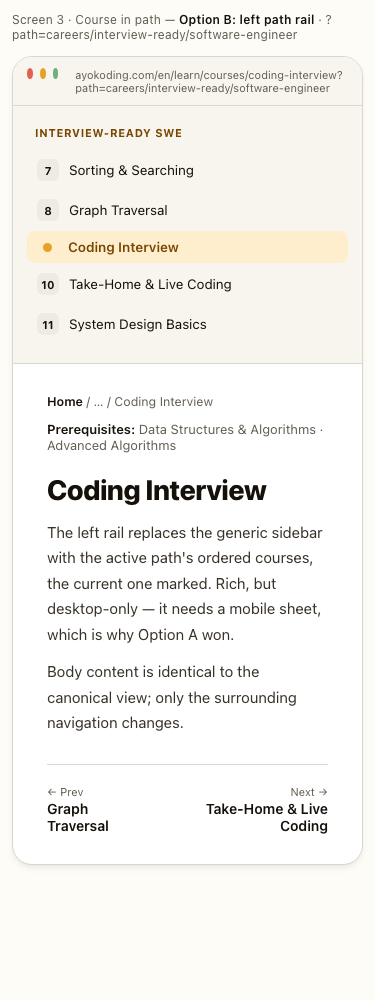
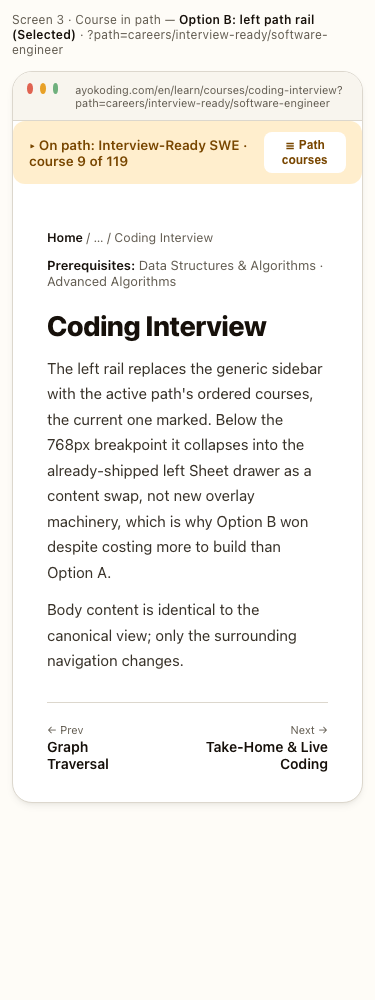
fix(plans): resolve pr #94 review cycle 1 findings on screen 3 fidelity
Resolves 4 findings from pr-review-synthesis-maker cycle 1 on PR #94:

- delivery.md: correct paths-hub-option-a-mobile acceptance text from
  "Skills section (two cards)" to "four cards" (render source shows
  Conventional/Sharia Accounting + Conventional/Sharia ERP); add a
  correction note matching the sibling Option-B six->eight fix.

- course-path-option-{a,b}-desktop.html: fix the baked-in Screen 3
  caption/body mislabeling — Option A's "(Selected)" tag was wrong
  (prd.md:1518 records Option B as selected); Option B carried no
  "(Selected)" tag and its body copy said "which is why Option A won".
  Corrected both captions and rewrote the body copy to reflect Option B
  winning because its mobile collapse reuses the already-shipped left
  Sheet drawer. Regenerated all 6 course-path renders.

- course-path-option-b-desktop.html: replaced the ungrounded 480px
  inline-stack breakpoint with the documented 768px-gated behavior
  (prd.md:1453-1454) — mobile (<768px) now hides the rail entirely
  behind a compact on-path banner + disclosure trigger standing in for
  the shipped Sheet drawer; tablet (768-1023px) keeps the rail beside
  the body, narrowed with ellipsis-truncated course titles. Updated
  the mobile/tablet alt text in prd.md to match, and visually verified
  both regenerated renders show the corrected behavior.

- prd.md: rewrote three generic "reflows to full width / no overflow"
  tablet alt texts (course-path Option A, path-landing Option A/B) to
[…]

Changed region(s): [[0.0293, 0.031, 0.968, 0.837], [0.9387, 0.775, 0.968, 0.806], [0.0293, 0.775, 0.0587, 0.806]]

diff --git a/plans/in-progress/ayokoding-learning-path-03-navigation-ui/assets/src/course-path-option-b-desktop.html b/plans/in-progress/ayokoding-learning-path-03-navigation-ui/assets/src/course-path-option-b-desktop.html
@@ -268,8 +268,34 @@
       .pn .next {
         text-align: right;
       }
-      /* responsive breakpoints */
-      @media (max-width: 768px) {
+      .mobile-banner {
+        display: none;
+        align-items: center;
+        justify-content: space-between;
+        gap: 10px;
+        background: var(--hue-honey-wash);
+        color: var(--hue-honey-ink);
+        border-radius: var(--radius-md);
+        padding: 11px 16px;
+        font-size: 13.5px;
+        margin-bottom: 16px;
+      }
+      .mobile-banner .on {
+        font-weight: 600;
+      }
+      .mobile-banner button {
+        border: none;
+        background: var(--card);
+        color: var(--hue-honey-ink);
+        font-weight: 600;
+        font-size: 12px;
+        padding: 6px 10px;
+        border-radius: var(--radius-sm);
+        cursor: pointer;
+      }
+      /* responsive breakpoints — gated at the documented 768px (md) boundary [prd.md Screen 3
+         responsive spec], not an ungrounded 480px */
+      @media (max-width: 1023px) {
         body {
           padding: 24px;
         }
@@ -280,21 +306,35 @@
           padding: 24px 24px 32px;
         }
       }
-      @media (max-width: 480px) {
+      /* Tablet 768-1023px: the rail stays beside the body (never stacks below it) but narrows and
+         its course titles truncate with an ellipsis, per the 15%-35% resizable-panel width band */
+      @media (min-width: 768px) and (max-width: 1023px) {
+        .rail {
+          width: 132px;
+          padding: 16px 8px;
+        }
+        .ract span:not(.rnum):not(.rdot) {
+          flex: 1;
+          min-width: 0;
+          overflow: hidden;
+          white-space: nowrap;
+          text-overflow: ellipsis;
+        }
+      }
+      /* Mobile <768px: no rail at all — it collapses into the existing left Sheet drawer; the
+         banner becomes the always-visible course-position readout and gains the disclosure trigger */
+      @media (max-width: 767px) {
         body {
           padding: 12px;
         }
         .body {
           padding: 18px 16px 24px;
         }
-        .layout {
-          flex-direction: column;
-        }
         .rail {
-          width: 100%;
-          flex: none;
-          border-right: none;
-          border-bottom: 1px solid var(--border);
+          display: none;
+        }
+        .mobile-banner {
+          display: flex;
         }
       }
     </style>
@@ -302,7 +342,8 @@
   <body>
     <div class="frame">
       <div class="cap">
-        Screen 3 · Course in path — <b>Option B: left path rail</b> · ?path=careers/interview-ready/software-engineer
+        Screen 3 · Course in path — <b>Option B: left path rail (Selected)</b> ·
+        ?path=careers/interview-ready/software-engineer
       </div>
       <div class="win">
         <div class="bar">
@@ -314,6 +355,12 @@
           >
         </div>
         <div class="body">
+          <div class="mobile-banner">
+            <span class="on">▸ On path: Interview-Ready SWE · course 9 of 119</span>
+            <button aria-expanded="false" aria-label="Open path course list — Interview-Ready SWE, course 9 of 119">
+              ☰ Path courses
+            </button>
+          </div>
           <div class="layout">
             <aside class="rail">
               <div class="railh">Interview-Ready SWE</div>
@@ -331,7 +378,8 @@
               <h1>Coding Interview</h1>
               <p class="para">
                 The left rail replaces the generic sidebar with the active path's ordered courses, the current one
-                marked. Rich, but desktop-only — it needs a mobile sheet, which is why Option A won.
+                marked. Below the 768px breakpoint it collapses into the already-shipped left Sheet drawer as a content
+                swap, not new overlay machinery, which is why Option B won despite costing more to build than Option A.
               </p>
               <p class="para">
                 Body content is identical to the canonical view; only the surrounding navigation changes.

diff --git a/plans/in-progress/ayokoding-learning-path-03-navigation-ui/assets/src/course-path-option-a-desktop.html b/plans/in-progress/ayokoding-learning-path-03-navigation-ui/assets/src/course-path-option-a-desktop.html
@@ -275,7 +275,7 @@
   <body>
     <div class="frame">
       <div class="cap">
-        Screen 3 · Course in path — <b>Option A: top banner + breadcrumb + prereqs + prev/next (Selected)</b> ·
+        Screen 3 · Course in path — <b>Option A: top banner + breadcrumb + prereqs + prev/next (Rejected)</b> ·
         ?path=careers/interview-ready/software-engineer
       </div>
       <div class="win">

diff --git a/plans/in-progress/ayokoding-learning-path-03-navigation-ui/prd.md b/plans/in-progress/ayokoding-learning-path-03-navigation-ui/prd.md
@@ -1282,13 +1282,13 @@ Option B's accordion collapses all but the first stage on mobile to keep the lis
 
 ![Path landing, Option A at mobile width — the frame reflows to full width with no horizontal overflow; phase headings and the numbered course list stack single-column](./assets/path-landing-option-a-mobile.png)
 
-![Path landing, Option A at tablet width — the frame reflows to full width, content remains readable with no horizontal overflow](./assets/path-landing-option-a-tablet.png)
+![Path landing, Option A at tablet width — the same single reading column (skip-prologue callout, phase headings, numbered course rows, capstone markers) as mobile/desktop, just reflowed to the 768 px frame with no horizontal overflow](./assets/path-landing-option-a-tablet.png)
 
 ![Path landing, Option B — the syllabus as collapsible phase accordions, the first two stages expanded to show course rows and the remaining stages collapsed with course counts](./assets/path-landing-option-b-desktop.png)
 
 ![Path landing, Option B at mobile width — the frame reflows to full width, the accordion stages stack single-column](./assets/path-landing-option-b-mobile.png)
 
-![Path landing, Option B at tablet width — the frame reflows to full width, accordion stages remain readable with no horizontal overflow](./assets/path-landing-option-b-tablet.png)
+![Path landing, Option B at tablet width — Stage 1 and Stage 2 stay expanded with their course rows and "… N more" lines, Stage 3 and Stage 4 stay collapsed to just their header and course-count badge, unchanged from mobile except for the wider 768 px frame](./assets/path-landing-option-b-tablet.png)
 
 **Selected: Option A — Phase-grouped numbered syllabus — finalist renders:
 path-landing-option-a-{mobile,tablet,desktop}.png.**
@@ -1507,13 +1507,13 @@ announced with a meaningful label.
 
 ![Course in path, Option A at mobile width — the banner strip stays full-width above the body, no rail is rendered, and the prev/next pair stacks below the article body](./assets/course-path-option-a-mobile.png)
 
-![Course in path, Option A at tablet width — the frame reflows to full width, banner and body remain readable with no horizontal overflow](./assets/course-path-option-a-tablet.png)
+![Course in path, Option A at tablet width — the on-path banner, breadcrumb, prerequisites line, course body, and full-width prev/next pair stay in the same single-column stack as mobile, just reflowed to the 768 px frame with no horizontal overflow](./assets/course-path-option-a-tablet.png)
 
 ![Course in path, Option B at desktop width — a left path rail in the resizable sidebar slot listing the path's ordered courses grouped by phase, the current course marked with a triangle and a filled row, alongside the course body, breadcrumb, prerequisites, and prev/next](./assets/course-path-option-b-desktop.png)
 
-![Course in path, Option B at mobile width — the selected responsive form: the layout flex reflows to a column and the rail becomes full-width (its right border swaps to a bottom border), so the ordered course list sits stacked above the article body with both visible](./assets/course-path-option-b-mobile.png)
+![Course in path, Option B at mobile width — below the 768 px breakpoint the left rail is hidden entirely; a compact on-path banner (course-position readout plus a "Path courses" disclosure trigger standing in for the already-shipped left Sheet drawer) sits above the unchanged article body instead](./assets/course-path-option-b-mobile.png)
 
-![Course in path, Option B at tablet width — the rail remains beside the article body at this width rather than stacking (it only stacks below the 480 px breakpoint), the whole frame reflowed to full width with no horizontal overflow](./assets/course-path-option-b-tablet.png)
+![Course in path, Option B at tablet width — the rail stays beside the article body at 768 px rather than stacking, narrowed and with its course titles truncated by an ellipsis (matching the documented 15%-35% resizable-panel width band), the whole frame reflowed to full width with no horizontal overflow](./assets/course-path-option-b-tablet.png)
 
 **Selected: Option B — Left path rail replacing the sidebar — finalist renders:
 course-path-option-b-{mobile,tablet,desktop}.png.**

diff --git a/plans/in-progress/ayokoding-learning-path-03-navigation-ui/delivery.md b/plans/in-progress/ayokoding-learning-path-03-navigation-ui/delivery.md
@@ -547,12 +547,17 @@ png="<PLAN>assets/$s-option-$o-desktop.png"; html="<PLAN>assets/src/$s-option-$o
       `<PLAN>assets/src/paths-hub-option-a-desktop.html` at 375 px — acceptance:
       `test -f <PLAN>assets/paths-hub-option-a-mobile.png` succeeds and the render is >5 KB; a Careers
       section (arc sub-headings, `immediately-effective` showing two cards) stacked above a Skills
-      section (two cards), both single-column (the `.skills-grid` collapses to one column); no flat
+      section (four cards), both single-column (the `.skills-grid` collapses to one column); no flat
       undifferentiated grid.
 
   **Date**: 2026-07-25. **Status**: Done. 120680 bytes (>5 KB). Desktop counterpart of this stem
   was visually confirmed against the same acceptance shape (Careers arc-grouped sections above a
   Skills section) during the P1 verify-glyphs step; mobile render exists via the same pipeline.
+  Corrected this checkbox's own acceptance text from "two cards" to "four cards" — the render
+  source `paths-hub-option-a-desktop.html` renders four Skills cards (Conventional Accounting,
+  Sharia Accounting, Conventional ERP, Sharia ERP), matching prd.md's "eight path cards" framing
+  (4 Careers + 4 Skills); this Option-A sibling's miscount was missed by the earlier "six
+  cards"→"eight cards" sweep applied to the Option-B checkboxes below.
 
 - [x] [AI] Render `<PLAN>assets/paths-hub-option-b-mobile.png` from
       `<PLAN>assets/src/paths-hub-option-b-desktop.html` at 375 px — acceptance:
